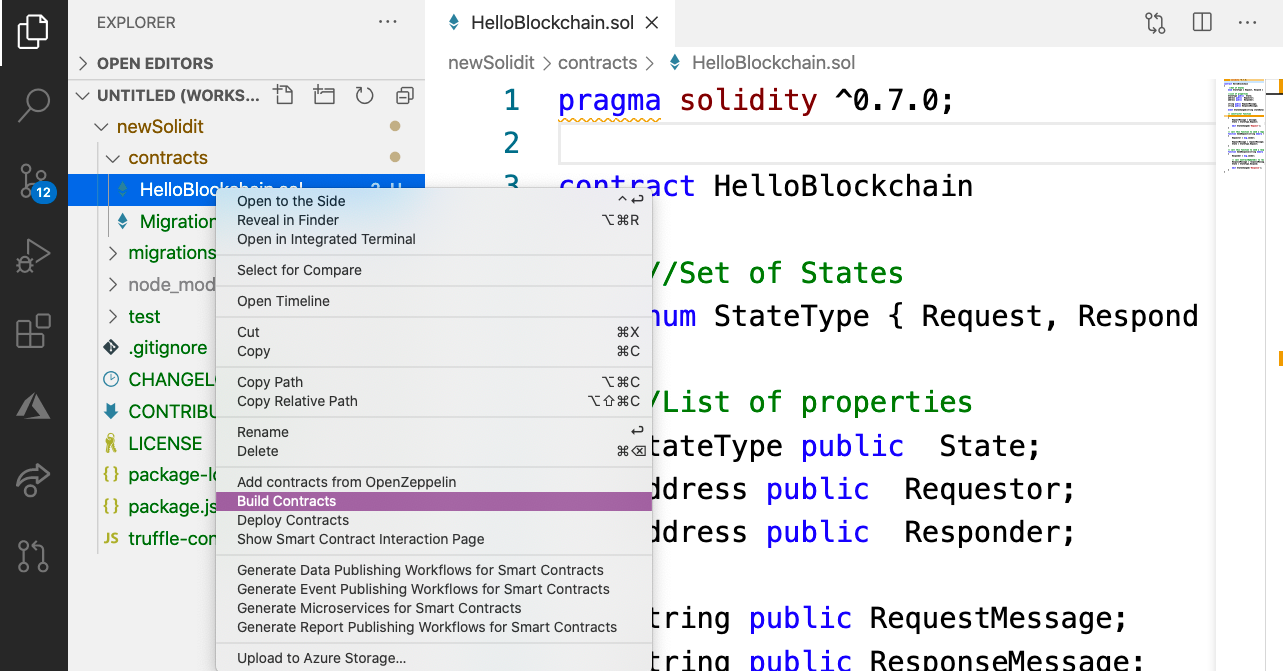
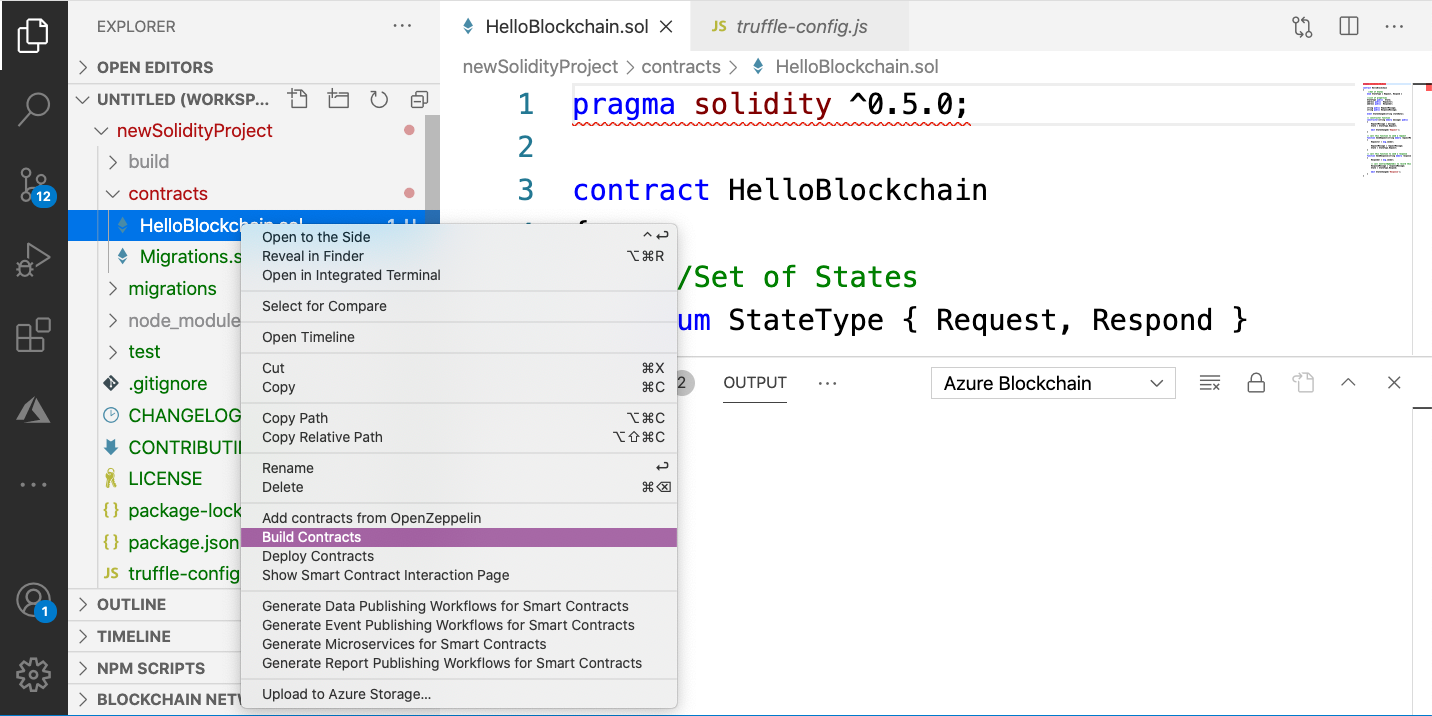
updates for smart contracts module

diff --git a/ethereum-blockchain-dev/smart-contracts/includes/4-blockchain-dev-kit.md b/ethereum-blockchain-dev/smart-contracts/includes/4-blockchain-dev-kit.md
@@ -1,0 +1,77 @@
+# Exercise: Install and get started with the Blockchain Development Kit for Ethereum
+
+## Install the extension
+
+[Blockchain Development Kit for Ethereum](https://marketplace.visualstudio.com/items?itemName=AzBlockchain.azure-blockchain) is an extension you can use in Visual Studio Code. The extension makes it easy to create, build, and deploy smart contracts on Ethereum ledgers.
+
+Simply go to **Extensions** and search for **Blockchain Development Kit** and install it.
+
+:::image type="content" source="media\bdk-install.png" alt-text="Install Blockchain Development Kit":::
+
+## Get started
+
+### Create a New Solidity Project with the extension
+
+Once you have all the dependencies installed, you can now use the Blockchain Development Kit to create your first project.
+
+1. Start by adding a new empty directory to your computer for the project. Note: You can open your terminal and type `mkdir newSolidityProject` to create a new directory. Keep note of where this new empty directory is, but you don't need it yet.
+2. Open Visual Studio Code.
+3. Go to View -> Command Palette. In the search box type: `Blockchain: New Solidity Project`. You'll notice that as you begin to type "Blockchain" a list of commands will be presented.
+
+:::image type="content" source="media\new-solidity-project-selection.png" alt-text="Select New Solidity project option":::
+
+4. For the type of solidity project, select **Create basic project**.
+5. Use the UI file explorer pop up to find the folder you created in step 1. Select the folder and in the bottom right-hand of the window you'll see **Creating new project**
+6. Sit back and wait for your new Solidity project to be created.
+
+Once it is, open the Explorer and take a look at all the files that were created in the project.
+
+:::image type="content" source="media\new-solidity-project.png" alt-text="New workspace for solidity project":::
+
+In this project, you will have a boiler plate of Solidity code that you can use. Notice that you have directories for:
+
+- **contracts:** Contains the **HelloBlockchain.sol** and **Migrations.sol** contracts
+- **migrations:** Contains an initial migration and a deploy contract.
+- **test:** Contains a test for the HelloBlockchain contract written in JavaScript
+
+You'll also have some other config files:
+
+- **package.json:** To define project details and dependencies
+- **truffle-config.json:**. To define dependencies and configuration for Truffle
+
+For now we will only focus on the **contracts/** directory.
+
+## Compile the contracts
+
+We will start by using the **HelloBlockchain.sol** smart contract inside of the contracts folder.
+
+1. Go to contracts/HelloBlockchain.sol
+Right click HelloBlockchain.sol
+2. Click on **Build Contracts** to compile the smart contract. Notice the window appear in the bottom right that says: "Building contracts"
+3. Select View -> Output to see information about the compiled contract. Note: In the dropdown window you may need to select "Azure Blockchain" to see output from the extension
+
+:::image type="content" source="media\build-contracts.png" alt-text="Build contracts":::
+
+## Deploy contracts
+
+After the contract has compiled successfully, you can deploy the contract locally. This step requires you to sign into your Azure account.
+
+1. Go to contracts/HelloBlockchain.sol
+2. Right click HelloBlockchain.sol
+3. Click on **Deploy Contracts** and select development in the window that appears. Here you will be prompted to sign in to Azure if you are not already.
+
+:::image type="content" source="media\deploy-contracts.png" alt-text="Deploy contracts":::
+
+4. In the output window (View -> Output) you can see information about the deployed migrations and contracts
+
+:::image type="content" source="media\deploy-details.png" alt-text="Deploy details in output window":::
+
+Here you see some key information, or metadata about the contract you just deployed:
+
+- The address of the contract
+- Time stamp of the block that the contract creation transaction was a part of
+- The address of the account that deployed the contract
+- The balance (in Ether) that the account has after this transaction was made. The balance is 100 ETH (the starting default value) minus the `total cost`
+- The amount of gas used and the gas price. Gas refers to the fee, required to successfully conduct a transaction or execute a contract on the Ethereum blockchain platform. You can think of it of the gas you need to put into your car to drive places.
+- Note: Gas prices are denoted in gwei, with are worth 0.000000001 ETH.
+- Total cost = gas price * gas use

diff --git a/ethereum-blockchain-dev/smart-contracts/includes/3-dev-kit-dependencies.md b/ethereum-blockchain-dev/smart-contracts/includes/3-dev-kit-dependencies.md
@@ -1,0 +1,36 @@
+# Exercise: Install dependencies needed for the Blockchain Development Kit for Ethereum
+
+## Dependencies to install
+
+To use the Blockchain Development Kit, you will need to make sure you have the following installed:
+
+### Python
+
+- Need version 2.7.15 or greater
+- Please note, you must have Python installed in your `PATH` variable.
+- Note: Most computers will come with Python pre-installed, however it might not be up-to-date. To check if you do have Python installed, open up a terminal and type `python`
+  - If installed, it will print out the version of Python that you have on your computer
+- To install Python, visit[the Python downloads page](https://www.python.org/downloads/) and click on the **Download Python X.X.X** button. Note that the image shows the download option for a Mac computer. If you have a Linux or Windows computer you will be presented with that download option.
+
+:::image type="content" source="media\python-download.png" alt-text="Download Python":::
+
+- Follow the prompts to download Python, and make sure to select the option to **Add Python to PATH** if that's presented to you.
+
+### Node
+
+- Need version 10.15.x or greater
+- To install Node, visit the [Node.js downloads page](https://nodejs.org/download/). Select the installer for your platform
+
+:::image type="content" source="media\node-download.png" alt-text="Download Node":::
+
+- To confirm Node.js is installed, open your terminal and type: `node`. If installed successfully, the terminal will return the version of Node.js installed. You can also confirm that npm is installed by typing `npm` in the terminal.
+
+### Git
+
+- Need version 2.10.x or greater
+- Visit the [Git downloads page](https://git-scm.com/downloads) and select your platform. Follow the instructions to download Git.
+
+:::image type="content" source="media\git-download.png" alt-text="Download Git":::
+
+- Note that the image shows the download option for a Mac computer. If you have a Linux or Windows computer you will be presented with that download option.
+- Once installed, open your terminal and type `git`. If installed successfully, the terminal will return a list of git commands available.

diff --git a/ethereum-blockchain-dev/smart-contracts/includes/6-write-contract.md b/ethereum-blockchain-dev/smart-contracts/includes/6-write-contract.md
@@ -1,11 +1,15 @@
 # Exercise: Write a smart contract with the Blockchain Development Kit for Ethereum
 
-In the project you created earlier, under the **contracts/** directory, select to create a new file called **Shipping.sol**.
+In this unit, we'll add a new smart contract to the newSolidityProject we previously created.
+
+## Create a shipping contract
+
+In the project you created earlier, under the **contracts/** directory, right-click on the directory and select to create a new file called **Shipping.sol**.
 
 Copy over the contents of this contract below:
 
 ```solidity
-pragma solidity ^0.7.0;
+pragma solidity >=0.5.16<=0.7.0;
 
 contract Shipping
 {
@@ -46,3 +50,23 @@ contract Shipping
 
 }
 ```
+
+Take a look through the contract to get familiar with what's happening here.
+
+## Add a migration
+
+We'll also want to add a migration so that the shipping contract can be deployed successfully.
+
+Right-click on the migrations directory and select New File. Name the migration **3_deploy_contracts.js**
+
+Add the contents to the migration file:
+
+var Shipping = artifacts.require("Shipping");
+module.exports = deployer => {
+    deployer.deploy(Shipping);
+};
+
+## Build and deploy
+
+Next, make sure that you can build and deploy the contract successfully before moving on.
+

diff --git a/ethereum-blockchain-dev/smart-contracts/includes/5-truffle.md b/ethereum-blockchain-dev/smart-contracts/includes/5-truffle.md
@@ -57,3 +57,17 @@ Commands:
 
 See more at http://truffleframework.com/docs
 ```
+
+## Get started with using Truffle
+
+Now that Truffle is installed, let's use it to run the tests that were generated as part of our newSolidityProject.
+
+### Test the contract
+
+You can find the test file in test/HelloBlockchain.js. Take a look through the test file to try to understand what's being tested.
+
+1. In Visual Studio Code, go to Terminal -> New Terminal
+2. In the terminal type: `truffle test`
+In the terminal you will see which tests passed, and if any test failed (We will talk more about how to write tests in a later unit, but this gets you some exposure to running tests with Truffle.
+
+:::image type="content" source="media\truffle-test.png" alt-text="Run truffle test from the terminal":::

diff --git a/README.md b/README.md
@@ -21,12 +21,12 @@ This repo contains all the content for development of blockchain Learn modules. 
 
 1. Introduction
 2. Learn what smart contracts are
-3. Exercise: Install the Blockchain Development Kit for Ethereum
-4. Exercise: Install truffle
-5. Exercise: Write a smart contract
-6. Exercise: Test your smart contract
-7. Use best practices for smart contracts
-8. Knowledge check
+3. Install dependencies needed for the Blockchain Developer Kit for Ethereum
+4. Exercise: Install and get started with the Blockchain Development Kit for Ethereum
+5. Exercise: Install truffle
+6. Exercise: Write a smart contract
+7. Exercise: Test your smart contract
+9. Knowledge check
 9. Summary
 
 **Status:** In progress

diff --git a/ethereum-blockchain-dev/smart-contracts/includes/9-summary.md b/ethereum-blockchain-dev/smart-contracts/includes/9-summary.md
@@ -1,3 +1,3 @@
 # Summary
 
-In this module, you learned about some popular use cases for smart contracts. You also learned about and installed tools to help write and test smart contracts, including the Blockchain Development Kit for Ethereum and the Truffle Suite.
+In this module, you learned about some popular use cases for smart contracts. You also learned about and installed tools to help write and test smart contracts, including the Blockchain Development Kit for Ethereum and Truffle.

diff --git a/ethereum-blockchain-dev/smart-contracts/includes/7-test-contract.md b/ethereum-blockchain-dev/smart-contracts/includes/7-test-contract.md
@@ -1,0 +1,7 @@
+# Exercise: Test a smart contract with Truffle
+
+In this unit, we will write a new test for our shipping contract.
+
+## Write a test
+
+## Run a test
